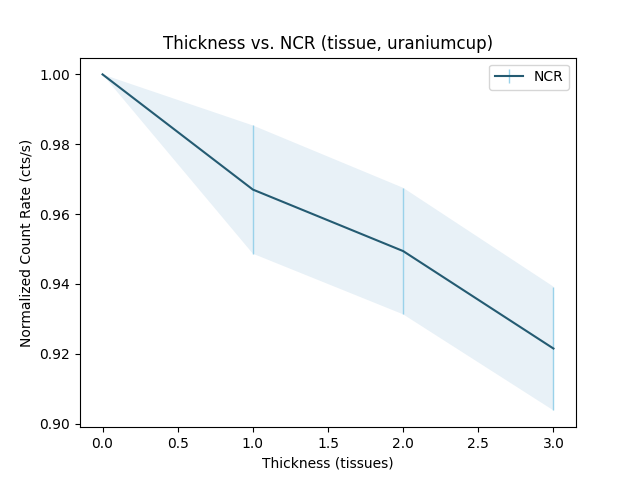
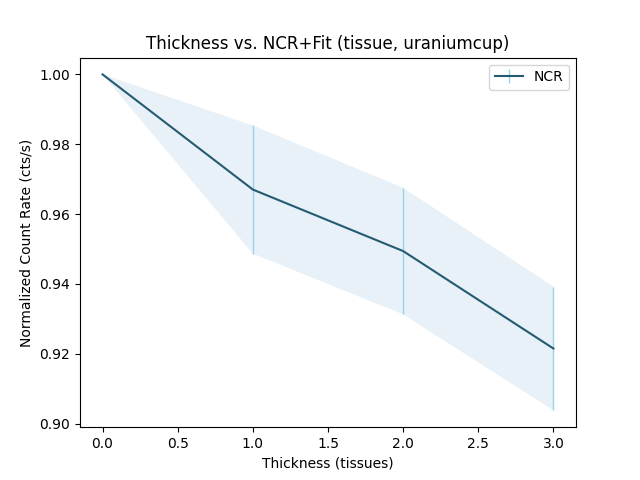
cool

Changed region(s): [[0.2188, 0.0625, 0.8125, 0.125]]

diff --git a/drive.py b/drive.py
@@ -1,3 +1,7 @@
+# type:ignore
+
+from ErrorProp import ErroredValue as EV
+
 from datacleaning import globit
 from multiprocessing import Pool
 from calculate import SSE, readdata, unwrap, sMinFit, RelativeIntersity, calculateSfitUncert
@@ -22,7 +26,7 @@ def plot(index, ax=None):
     ax.fill_between(np.array(inches), np.array(ncr)+np.array(delta), np.array(ncr)-np.array(delta), alpha=0.1)
 
     attrs = results[i].attrs
-    ax.set_title(f"Thickness vs. NCR ({attrs['material']}, {attrs['source']})")
+    ax.set_title(f"Thickness vs. NCR+Fit ({attrs['material']}, {attrs['source']})")
     ax.set_xlabel(f"Thickness ({'tissues' if 'tissue' in attrs['material'] else 'inches'})")
     ax.set_ylabel("Normalized Count Rate (cts/s)")
     ax.legend()
@@ -88,6 +92,26 @@ def process(indx, ax=None):
 
     return smin, t, t_min, t_max
 
+def overlaid(indx, bestFit, ax=None):
+    inches, logits, logits_err = unwrap(results[indx])
+
+    minInches = min(inches)
+    maxInches = max(inches)
+
+    x_values = np.arange(minInches, maxInches, 5e-3).tolist()
+    y_values = [0.5**(i/bestFit) for i in x_values]
+
+    y_content = [i.value for i in y_values]
+    y_delta = [i.delta for i in y_values]
+
+    inches, ncr, delta = zip(*sorted(zip(x_values, y_content, y_delta)))
+
+    ax.plot(inches, ncr, color='#4e6d41', label='NCR (best fit T)')
+    ax.fill_between(np.array(inches), np.array(ncr)+np.array(delta), np.array(ncr)-np.array(delta), alpha=0.25, facecolor='#95e572')
+
+    attrs = results[i].attrs
+    ax.legend()
+
 # if __name__ == '__main__':
     # with Pool(5) as p:
         # res = p.map(process, list(range(len(results))))
@@ -98,9 +122,12 @@ def process(indx, ax=None):
 
 if __name__ == '__main__':
     for i in range(0, 12):
-        fig, ax = plt.subplots()
-        plot(i, ax)
-        plt.savefig(f"out/{i}_{results[i].attrs['material']}_{results[i].attrs['source']}_ncr.png")
-        fig, ax = plt.subplots()
-        print(process(i, ax))
-        plt.savefig(f"out/{i}_{results[i].attrs['material']}_{results[i].attrs['source']}_gradient.png")
+        fig1, ax1 = plt.subplots()
+        plot(i, ax1)
+        fig1.savefig(f"out/{i}_{results[i].attrs['material']}_{results[i].attrs['source']}_ncr.png")
+        fig2, ax2 = plt.subplots()
+        sMin, t, tmin, tmax = process(i, ax2)
+        fig2.savefig(f"out/{i}_{results[i].attrs['material']}_{results[i].attrs['source']}_gradient.png")
+        overlaid(i, EV(t, max(tmin,tmax)), ax1)
+        fig1.savefig(f"out/{i}_{results[i].attrs['material']}_{results[i].attrs['source']}_ncr_overlay.png")
+

diff --git a/ErrorProp.py b/ErrorProp.py
@@ -39,6 +39,10 @@ class ErroredValue(object):
     def __rtruediv__(self,o):
         return ErroredValue((o/self.value), (o/self.value)*(((self.delta/self.value)**2)**0.5))
 
+    # https://physics.stackexchange.com/questions/411879/how-to-calculate-the-percentage-error-of-ex-if-percentage-error-in-measuring
+    def __rpow__(self, a): 
+        return ErroredValue(a**(self.value), (0.5**self.value)*math.log(a, math.e)*self.delta)
+
     def __str__(self):
         return f'{self.value:.6f}±{self.delta:.6f}'
 
